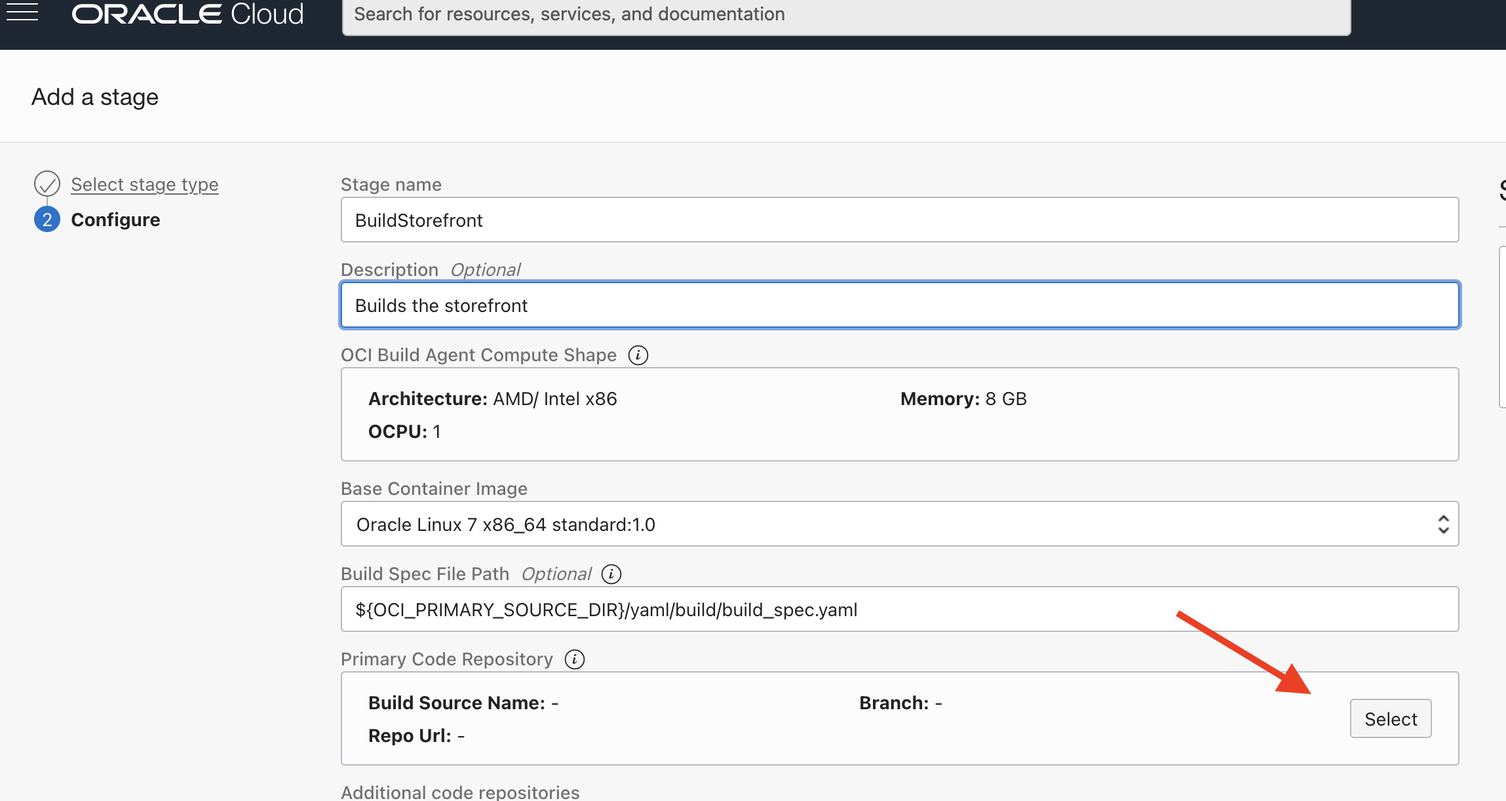
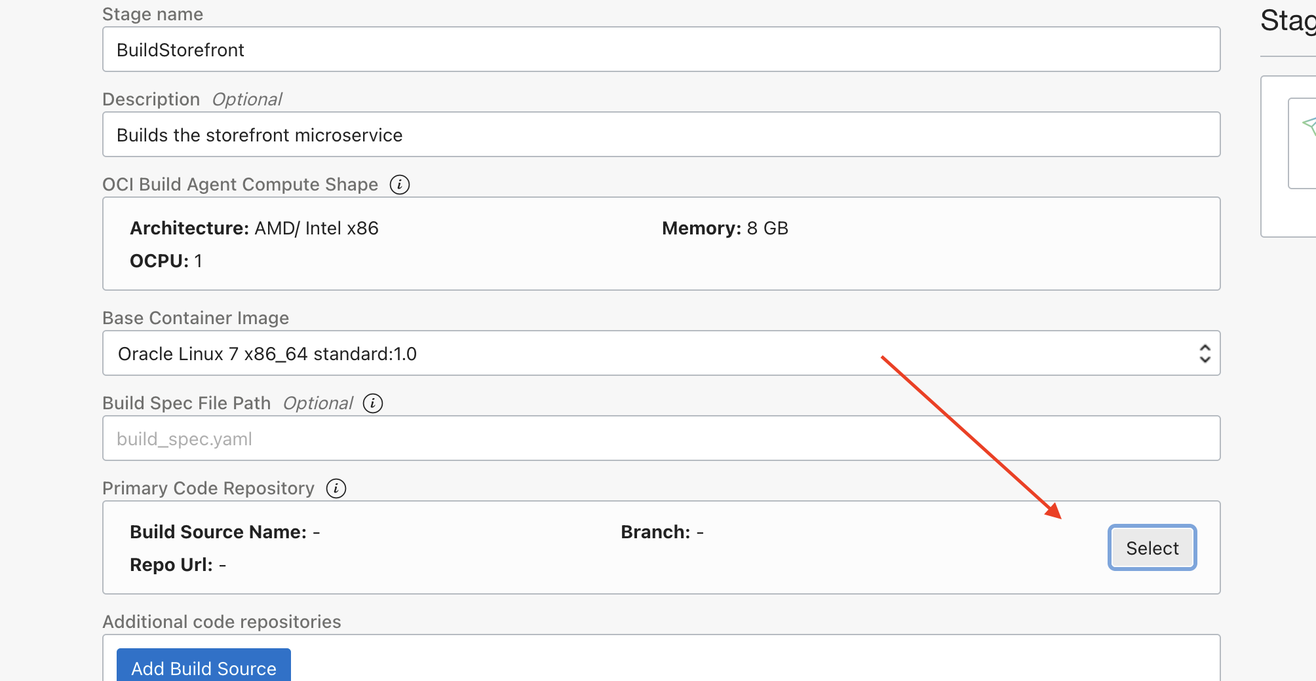
build pipelines added - single stage

diff --git a/AppDev/cloud-native/dev-ops/oke-labs/creating-the-first-pipeline.md b/AppDev/cloud-native/dev-ops/oke-labs/creating-the-first-pipeline.md
@@ -60,20 +60,13 @@ We're now going to add a build stage. A build stage runs in it's build runner (e
   
   ![](images/build-pipeline-pipeline-add-build-stage-part-1.png)
 
-  4. Name the stage `BuildStorefront`, Enter a description if you like, Leave the Base container image unchanged, In the **Build Spec File Path** enter `${OCI_PRIMARY_SOURCE_DIR}/yaml/build/build_spec.yaml`
+  4. Name the stage `BuildStorefront`, Enter a description if you like, Leave the **Base container image** unchanged, Leave the **Build Spec File Path** blank
   
   ![](images/build-pipeline-pipeline-add-build-stage-part-2-part-1.png)
 
-<details><summary><b>Why specify a location this time, isn't the default ?</b></summary>
+<details><summary><b>I don't want the build_spec.aml in the repo root ?</b></summary>
 
-Note that we have to specify the location as the build_spec.yaml is not in the root of the project. This is due to the way that Eclipse places projects in a git repo, and I used Eclipse to create the code. (Eclipse allows multiple projects in the same git repo so everything is one level "down" from the top of the repo). If build_spec.yaml has been ad the top level of the git repo the build system would have looked there as the default and we would not have had to specify this.
-
----
-</details>
-
-<details><summary><b>What's with ${OCI_PRIMARY_SOURCE_DIR} ?</b></summary>
-
-The devops build system assigns the variable ${OCI_PRIMARY_SOURCE_DIR} to the location in the build runner where the primary git repo is placed during it's setup so for the cloudnative-helidon-storefront this means that build spec is in ${OCI_PRIMARY_SOURCE_DIR}/yaml/build/build_spec.yaml
+You can specify the location as the build_spec.yaml if it is not in the root of the project (though at the time of writing that seemed not to work consistently). The devops build system assigns the variable ${OCI_PRIMARY_SOURCE_DIR} to the location in the build runner where the primary git repo is placed during it's setup so for the cloudnative-helidon-storefront you could set the build spec as `${OCI_PRIMARY_SOURCE_DIR}/helidon-storefront-full/yaml/build/build_spec.yaml` if you wanted to use that version of the file.
 
 Note for a full list of the variables setup by the build pipeline infrastructure see the **Build Specification Parameters** section in the [build pipeline documentation](https://docs.oracle.com/en-us/iaas/Content/devops/using/build_specs.htm)
 
@@ -94,80 +87,188 @@ Note for a full list of the variables setup by the build pipeline infrastructure
   
 <details><summary><b>What if my project has multiple git repo ?</b></summary>
 
-Note - For this lab we are only using a single git repo which contains all of the code as well as the Kubernetes Manifests, However it's perfectly reasonable for a build to have multiple git repositories, for example if the code and Kubernetes manifests were held in separate repositories (which could with careful pipeline design result in a faster CI/CD process if only the manifests were changed)
+For this lab we are only using a single git repo which contains all of the code as well as the Kubernetes Manifests, However it's perfectly reasonable for a build to have multiple git repositories, for example if the code and Kubernetes manifests were held in separate repositories (which could with careful pipeline design result in a faster CI/CD process if only the manifests were changed)
 
 ---
 </details>
 
 <details><summary><b>Can I optimize my build with parallel stages ?</b></summary>
 
-Note - For this lab we're only going to create a simple linear pipeline, but if appropriate you can have parallel stages, perhaps you are building multiple library files first which can all be build independently, then combining them all in a last deploy stage and linking the intermediate artifacts with outputArtifact / inputArtifact entries in their build specs.
+For this lab we're only going to create a simple linear pipeline, but if appropriate you can have parallel stages, perhaps you are building multiple library files first which can all be build independently, then combining them all in a last deploy stage and linking the intermediate artifacts with outputArtifact / inputArtifact entries in their build specs.
 
 ---
 </details>
 
+The build stage will show in the editor
+
+  ![](images/build-pipeline-pipeline-added-first-stage.png)
+
 ## Task 3: Running our first pipeline 
 
-Let's see this in action, Click the **Start Manual Run** button on the upper right of the pipeline editor
+Let's see this in action, 
+
+  1. Click the **Start Manual Run** button on the upper right of the pipeline editor
+  
+  ![](images/build-pipeline-manual-run-start-button.png)
 
 
-A window will appear, you can change the Build run name it you needed to, but for now just leave it with the current value. The parameters box should be empty, as for this part of the lab we have not defined any parameters (we will look into this in a little bit) We only using using variables which get their values from inside the build pipeline, from the vault secrets (e.g. OCIR_HOST_VAULT), are determined inside the build stage (e.g. STOREFRONT_VERSION), or are set for us by the build pipeline infrastructure itself (e.g. OCI_PRIMARY_SOURCE_DIR)
+  A window will appear, you can change the Build run name it you needed to, but for now just leave it with the current value. The parameters box should be empty, as for this part of the lab we have not defined any parameters (we will look into this in a little bit) We only using using variables which get their values from inside the build pipeline, from the vault secrets (e.g. OCIR_HOST_VAULT), are determined inside the build stage (e.g. STOREFRONT_VERSION), or are set for us by the build pipeline infrastructure itself (e.g. OCI_PRIMARY_SOURCE_DIR)
 
-Click the **Start Manual Run** button on the lower left to start the build process.
+  2. Click the **Start Manual Run** button on the lower left to start the build process.
+  
+  ![](images/build-pipeline-manual-run-form-no-params.png)
 
-We can now see several aspects on the page
+  We can now see several aspects on the page
+  
+  ![](images/build-pipeline-manual-run-start-initial-build-only-pipeline.png)
 
 On the left is the build pipeline, at the moment there's only one stage, but if there were multiple the color coding would indicate the progress with completed stages being in green and in progress stages in Amber and pending stages in grey.
 
-In the centre section we can see the list of stages, if you click the arrow to the left of the stage name you will see the individual steps in the stage (these correspond to the steps in your `build_spec.yaml` file. As each stage completed a green checkmark will be displayed next to it
+In the centre section you will see the list of stages, if you click the arrow to the left of the stage name you will see the individual steps in the stage (these correspond to the steps in your `build_spec.yaml` file. As each stage completed a green checkmark will be displayed next to it
 
-Finally on the right we can see the logs form the build stages, note that if there are multiple steps in a build stage they will all be displayed in the logs for the stage. It can take a while for the logs to start being displayed as they do not update immediately, they can lag by 30 seconds or more between the data being generated and displayed. 
+Finally on the right you will see the logs from the build stages, note that if there are multiple steps in a build stage they will all be displayed in the logs for the stage. It can take a while for the logs to start being displayed as they do not update immediately, they can lag by 30 seconds or more between the data being generated and displayed. 
 
-Note If you see a warning about end time cannot be before start time do not worry, that's just the log viewer getting a little confused as the build process is initialized, it will sort itself out once the log data starts arriving.
+The build process can take a few minutes to run, please be patient.
 
-Navigating the log viewer.
+<details><summary><b>End timebefore start time warning ?</b></summary>
+
+If you see a warning about end time cannot be before start time do not worry, that's just the log viewer getting a little confused as the build process is initialized, it will sort itself out once the log data starts arriving.
+
+---
+</details>
+
+## Task 4: Navigating the build output.
 
 Though it's not that apparent (on Safari at least) there is a scroll bar on the left of the logs, also you can enter text in the **Find** field at the top of the log viewer, currently this highlights the entries rather than jumping to them (so you need to then scroll in most cases). Next to the **Find** field there is an arrow to enable you to download the logs to your own machine, personally I find this the easiest way to browse the logs once the stage has finished - I just load them into a text editor (or on the Mac there is also the console log viewer). The logs can get quite big - even this simple build stage generates over 1MB of log data, though most of that is just updates from Maven as it downloads the jar files specified in the pom.xml file.
 
+  ![](images/build-pipeline-manual-run-build-pipeline-log-navigation.png)
+  
 There is also the "three dots" menu to the right of each build stage, clicking on that opens a "popup" where you can see the details of the build runner as well as the logs for that stage.
 
-One point here, you can (as long as the logs are preserved - usually that's within the period specified when you Enabled logging for the project (there is a 1 month minimum) go back at any time to look at the output. There are several ways to do this, but if you are already in the build pipeline then the simplest is to click on the **Build History** tab. If this isn't visible (currently it only seems to display if there are no active build runs) Click the **Build pipeline** tab then the **Build History** should be displayed. 
+  ![](images/build-pipeline-manual-run-build-pipeline-build-stages-navigation.png)
+  
+  Once in the details page you can click the **Close** button to get rid of it
+  
+  ![](images/build-pipeline-manual-run-build-pipeline-build-stage-details.png)
 
-The other way to access the build history is to use the "Breadcrumb" trail at the top of the window and click on your project name, then on the left in the **Resources** section click **Build History** to see the list of builds that have been run.
+One point here, you can (as long as the logs are preserved - usually that's within the period specified when you Enabled logging for the project (there is a 1 month minimum) go back at any time to look at the output. There are several ways to do this, but if you are already in the build pipeline then the simplest is to click on the **Build History** tab. If this isn't visible (currently it only seems to display if you are not viewing a build run's output) Click the **Build pipeline** tab then the **Build History** should be displayed. 
 
-Admittedly at the moment you probably only have a single build, named something like `BuildStorefront-20211101-21-37` If it's not obvious the `20211101` references the date of the build in YYMMDD format and the `21-37` references the time of the build though I personally find looking at the **Timestamp** column to be easier. Also note that the **Triggerd by** column only contains `-`  this indicates a build process you started manually, it's possible (as we shall see later) to automatically trigger a build pipeline based on a git commit, in that case the **Build Runs** column will include the name of the trigger and the **Triggerd by** will contain the OCID of the trigger (the OCID is unique, wheras a name could be re-used, so this makes traceability easier).
+  ![](images/build-pipeline-build-history-list-first-build.png)
 
-Hopefully, unless there was an error in the `build_spec.yaml` file the build will complete, either using the log viewer or if you prefer by downloading to your own machine and opening it there let's have a log at the build log output.
+The other way to access the build history is to use the "Breadcrumb" trail at the top of the window and click on your project name, then on the left in the **Resources** section click **Build History** to see the list of **all** builds that have been run in thie project, but just the ones for the specific build pipeline.
+
+  ![](images/build-pipeline-build-history-list-all-builds.png)
+
+Admittedly at the moment you probably only have a single build, named something like `BuildStorefront-20211101-21-37` If it's not obvious `BuildStorefront` is the build pipeline name, the `20211101` references the date of the build in YYMMDD format and the `21-37` references the time of the build though I personally find looking at the **Timestamp** column to be easier. Also note that the **Triggerd by** column only contains `-`  this indicates a build process you started manually, it's possible (as we shall see later) to automatically trigger a build pipeline based on a git commit, in that case the **Build Runs** column will include the name of the trigger and the **Triggerd by** will contain the OCID of the trigger (the OCID is unique, wheras a name could be re-used, so this makes traceability easier).
+
+Hopefully, unless there was an error in the `build_spec.yaml` file the build will complete, either using the log viewer or if you prefer by downloading to your own machine and opening it there let's have a look at the build log output.
 
 The initial phases cover the creation and allocation of the build runner to the build stage - remember each build stage will have it's own runner.
 
+```
+2021-11-29T14:19:28.691Z Acquiring build runner.
+2021-11-29T14:19:35.413Z Acquired build runner.
+2021-11-29T14:19:35.927Z Provisioning build runner.
+2021-11-29T14:19:45.179Z Starting Build Execution..
+2021-11-29T14:19:47.465Z Starting Download source storefront, url https://devops.scmservice.uk-london-1.oci.oraclecloud.com/namespaces/lrn2df6gh9vo/projects/tgDevOpsProject/repositories/cloudnative-storefront-helidon, repoId ocid1.devopsrepository.oc1.uk-london-1.amaaaaaak6me2vyajgwoyrekxcjjl7klc2ufq4edp7gt5q2ambuxfp4juoia and ref: my-lab-branch.
+2021-11-29T14:19:48.375Z Download source storefront, url https://devops.scmservice.uk-london-1.oci.oraclecloud.com/namespaces/lrn2df6gh9vo/projects/tgDevOpsProject/repositories/cloudnative-storefront-helidon, repoId ocid1.devopsrepository.oc1.uk-london-1.amaaaaaak6me2vyajgwoyrekxcjjl7klc2ufq4edp7gt5q2ambuxfp4juoia and ref: my-lab-branch successful.
+2021-11-29T14:19:48.478Z Searching for build spec file in default location: ${OCI_PRIMARY_SOURCE_DIR}/build_spec.yaml or ${OCI_PRIMARY_SOURCE_DIR}/build_spec.yml
+2021-11-29T14:19:48.479Z Using build spec from default location: ${OCI_PRIMARY_SOURCE_DIR}/build_spec.yaml
+2021-11-29T14:19:48.537Z Searching for build spec file in default location: ${OCI_PRIMARY_SOURCE_DIR}/build_spec.yaml or ${OCI_PRIMARY_SOURCE_DIR}/build_spec.yml
+2021-11-29T14:19:48.537Z Using build spec from default location: ${OCI_PRIMARY_SOURCE_DIR}/build_spec.yaml
+2021-11-29T14:19:48.538Z Starting PARSE_BUILD_SPEC
+2021-11-29T14:19:48.804Z Completed PARSE_BUILD_SPEC
+```
 Once the build runner is ready then the build runtime does some parsing of the `build_spec.yaml` file. If there is a problem in processing the build spec (e.g. corrupt yaml, or trying to do something like export a vault variable) then it will be flagged here and the build process will stop.
 
-We then see the build process doing a phase **DOWNLOAD_INPUT_ARTIFACTS** This is basically a empty phase as in our build spec we didnt; define any input artifacts, but if there had been multiple build phases in our pipeline (for example creating library files in one build phase, then using them in a subsequent phase) this would allow the import of those artifacts form the previous stage inbto the current one - that's importanrt because each phase geit's it's own brand new runner, which of course initially doesn't know about what has happend in previous stages, so we need a way to transfer resulting artefacts between the stages.
+```
+2021-11-29T14:19:48.809Z Starting DOWNLOAD_INPUT_ARTIFACTS
+2021-11-29T14:19:48.810Z Completed DOWNLOAD_INPUT_ARTIFACTS successfully
+```
 
-Now we see the actual build steps we defined start running, these are executed in the order defined in the `build_spec.yaml` file, so the first stage is `Extract Export variables` We can see it displaying the various variables we are `echoing` in the buld step, along with the `STOREFRONT_VERSION:` being set to a value that the script extracted forn the source code (`0.0.1` in this case)
+We then see the build process doing a phase **DOWNLOAD_INPUT_ARTIFACTS** This is basically a empty phase as in our build spec we didn't define any input artifacts, but if there had been multiple build phases in our pipeline (for example creating library files in one build phase, then using them in a subsequent phase) this would allow the import of those artifacts form the previous stage into the current one - that's important because each phase get's it's own brand new runner, which of course initially doesn't know about what has happened in previous stages, so we need a way to transfer resulting artifacts between the stages.
 
+```
+2021-11-29T14:19:49.337Z Executing BUILD_SPEC_STEP : Extract Export variables
+2021-11-29T14:19:49.338Z Executing step: Extract Export variables with shell type: bash, user: root, timeout: 10000
+2021-11-29T14:19:49.600Z EXEC: Path is
+2021-11-29T14:19:49.601Z EXEC: /php/php-7.4.23/bin:/usr/share/maven/bin:/usr/local/sbin:/usr/local/bin:/usr/sbin:/usr/bin:/sbin:/bin:/root/bin:/usr/lib/gradle/gradle-7.1/bin:/node/node-v14.17.6-linux-x64/bin:/golang/go/bin
+2021-11-29T14:19:49.601Z EXEC: JAVA_HOME is
+2021-11-29T14:19:49.602Z EXEC: javahome
+2021-11-29T14:19:49.602Z EXEC: Extracting export variables
+2021-11-29T14:19:49.617Z EXEC: STOREFRONT_VERSION:  1.0.0
+2021-11-29T14:19:49.617Z EXEC: image will be stored to ///storefront:1.0.0
+2021-11-29T14:19:49.618Z EXEC: transferring the OCIR_HOST and OCIR_STORAGE_NAMESPACE vault variables
+2021-11-29T14:19:49.618Z EXEC: OCIR_HOST is lon.ocir.io
+2021-11-29T14:19:49.618Z EXEC: OCIR_STORAGE_NAMESPACE is lrn2df6gh9vo
+2021-11-29T14:19:49.641Z BUILD_SPEC_STEP : Extract Export variables execution completed.
+```
+
+Now we see the actual build steps we defined start running, these are executed in the order defined in the `build_spec.yaml` file, so the first stage is `Extract Export variables` We can see it displaying the various variables we used `echo` for in the buld step, along with the `STOREFRONT_VERSION:` being set to a value that the script extracted from the source code (`1.0.0` which is what we updated the version to)
+
+
+```
+2021-11-29T14:19:49.643Z Executing step: Install local JDK11 with shell type: bash, user: root, timeout: 10000000
+2021-11-29T14:19:54.681Z EXEC: total 183220
+2021-11-29T14:19:54.682Z EXEC: drwxr-xr-x. 8 root root      4096 Nov 29 14:19 jdk-11
+2021-11-29T14:19:54.682Z EXEC: -rw-r--r--. 1 root root 187611826 Aug 23  2018 openjdk-11+28_linux-x64_bin.tar.gz
+2021-11-29T14:19:54.683Z EXEC: Path is
+2021-11-29T14:19:54.683Z EXEC: /root/InstalledSoftware/jdk-11/bin:/php/php-7.4.23/bin:/usr/share/maven/bin:/usr/local/sbin:/usr/local/bin:/usr/sbin:/usr/bin:/sbin:/bin:/root/bin:/usr/lib/gradle/gradle-7.1/bin:/node/node-v14.17.6-linux-x64/bin:/golang/go/bin
+2021-11-29T14:19:54.684Z EXEC: JAVA_HOME is
+2021-11-29T14:19:54.684Z EXEC: /root/InstalledSoftware/jdk-11
+2021-11-29T14:19:54.744Z EXEC: openjdk version "11" 2018-09-25
+2021-11-29T14:19:54.745Z EXEC: OpenJDK Runtime Environment 18.9 (build 11+28)
+2021-11-29T14:19:54.746Z EXEC: OpenJDK 64-Bit Server VM 18.9 (build 11+28, mixed mode)
+2021-11-29T14:19:54.803Z BUILD_SPEC_STEP : Install local JDK11 execution completed.
+```
 A little further down we see the output for the `Install local JDK11` stage, her we can see the output of the commands used to download and install the version of the JDK we wish to use, along with some confirmation output including the updated `PATH` variable, the value assigned to `JAVA_HOME` the output form `java --version` and so on.
+
+```
+2021-11-29T14:19:55.509Z Executing BUILD_SPEC_STEP : Build Source and pack into container image
+2021-11-29T14:19:55.510Z Executing step: Build Source and pack into container image with shell type: bash, user: root, timeout: 400000
+2021-11-29T14:19:55.936Z EXEC: Running maven package - Working in /workspace/storefront/helidon-storefront-full
+2021-11-29T14:19:57.404Z EXEC: [INFO] Scanning for projects...
+2021-11-29T14:19:57.789Z EXEC: Downloading from central: https://repo.maven.apache.org/maven2/io/helidon/applications/helidon-mp/2.3.4/helidon-mp-2.3.4.pom
+2021-11-29T14:19:58.072Z EXEC: Progress (1): 2.7/6.2 kB
+2021-11-29T14:19:58.100Z EXEC: Progress (1): 5.5/6.2 kBProgress (1): 6.2 kB                        Downloaded from central: https://repo.maven.apache.org/maven2/io/helidon/applications/helidon-mp/2.3.4/helidon-mp-2.3.4.pom (6.2 kB at 20 kB/s)Downloading from central: https://repo.maven.apache.org/maven2/io/helidon/applications/helidon-applications-project/2.3.4/helidon-applications-project-2.3.4.pom
+2021-11-29T14:19:58.107Z EXEC: Progress (1): 2.7/10 kB
+2021-11-29T14:19:58.131Z EXEC: Progress (1): 5.5/10 kBProgress (1): 8.2/10 kBProgress (1): 10 kB  
+...
+...
+...
+Lot's and lot's of Maven output         
+```
 
 The next stage contains a lot of output - it's actually executing the build process and as it useds Maven to do this we get all of the output from the `mvn` command as it downloads first it's own jar files, then the ones specified in the `pom.xml` file for building the image and the jar files to run `jib` which packages the resulting code into a container image. This is a *lot* of output and makes up date build of the output for this stage.
 
 Rather than going through the output page by page in the log viewer just use the scroll bar (or whatever navigation option you chose if looking at this on your own machine) to go to the bottom of the output.
 
+```
+2021-11-29T14:21:01.937Z Starting SAVE_OUTPUT_ARTIFACTS
+2021-11-29T14:21:32.043Z Artifact storefront_container_image in build spec file with location storefront:latest successfully saved.
+2021-11-29T14:21:32.075Z Artifact service_yaml in build spec file from location ${OCI_PRIMARY_SOURCE_DIR}/helidon-storefront-full/yaml/deployment/serviceStorefront.yaml successfully saved.
+2021-11-29T14:21:32.103Z Artifact ingressRules_yaml in build spec file from location ${OCI_PRIMARY_SOURCE_DIR}/helidon-storefront-full/yaml/deployment/ingressStorefrontRules.yaml successfully saved.
+2021-11-29T14:21:32.131Z Artifact deployment_yaml in build spec file from location ${OCI_PRIMARY_SOURCE_DIR}/helidon-storefront-full/yaml/deployment/storefront-deployment.yaml successfully saved.
+2021-11-29T14:21:32.132Z Completed SAVE_OUTPUT_ARTIFACT
+```
+
 Here you will see the output of the phase `SAVE_OUTPUT_ARTIFACTS` if you don't see this then you may need to scroll up a little in the log output (it should be within around 5-15 lines from the bottom of the output for this stage)
-
-here we will see output similar to the following 
-
-```
-2021-11-01T18:23:14.056Z Starting SAVE_OUTPUT_ARTIFACTS   
-2021-11-01T18:23:43.420Z Artifact storefront_container_image in build spec file with location storefront:latest successfully saved.   
-2021-11-01T18:23:43.542Z Artifact service_yaml in build spec file from location ${OCI_PRIMARY_SOURCE_DIR}/helidon-storefront-full/yaml/deployment/serviceStorefront.yaml successfully saved.   
-2021-11-01T18:23:43.579Z Artifact ingressRules_yaml in build spec file from location ${OCI_PRIMARY_SOURCE_DIR}/helidon-storefront-full/yaml/deployment/ingressStorefrontRules.yaml successfully saved.   
-2021-11-01T18:23:43.613Z Artifact deployment_yaml in build spec file from location ${OCI_PRIMARY_SOURCE_DIR}/helidon-storefront-full/yaml/deployment/storefront-deployment.yaml successfully saved.   
-2021-11-01T18:23:43.613Z Completed SAVE_OUTPUT_ARTIFACT   
-```
 
 This phase is the build runner copying the artifacts that we specified in the `outputArtifacts` section of the `build _spec.yaml` out of the build runner and storing them somewhere so they can be picked up by the next stage (I'm guessing they are stored in bit of objects storage private to the build process, but it doesn't really matter) the artifact names are the ones you specified in the `outputArtifacts` section and *must* match the names you use for the artifact in subsequent build phases.
 
+```
+2021-11-29T14:21:32.132Z Starting SAVE_EXPORTED_VARIABLES [OCIR_STORAGE_NAMESPACE, OCIR_HOST, STOREFRONT_VERSION]
+2021-11-29T14:21:32.167Z Completed SAVE_EXPORTED_VARIABLES
+2021-11-29T14:22:02.517Z Completed Build stage.
+```
+
 Lastly we see the phase `SAVE_EXPORTED_VARIABLES` This phase is extracting the variables that we specified in the `vars.exportVariables` section in the `build_spec.yaml` file, as tith the output artifacts if we didn't do this they would die when the stage completes (along with everything else not copied out of the the build runner). By requiring the explicit identification of the output from a build stage we avoid polluting subsequent stages with unexpected artifacts and variables - and remember that the people designing one build stage may be different than those designing another, so coordination between the teams designing a build phase is essential to ensure that the expected variables and artifacts (and only those) are transfered between stages.
 
-So we've seen how to setup the build pipeline and how the `build_spec.yaml` is processed by the build runner, the next stage is to look at how to get the artifacts we have created out of the pipeline and into a longer term storage
+## End of the Module, what's next ?
+
+So we've seen how to setup the build pipeline and how the `build_spec.yaml` is processed by the build runner, but all this has done is shown us the compilation process and how to look at the results. The next stage is to look at how to get the artifacts we have created out of the pipeline and into a longer term storage so they can be used for a deployment.
+
+## Acknowledgements
+
+* **Author** - Tim Graves, Cloud Native Solutions Architect, EMEA OCI Centre of Excellence
+* **Last Updated By** - Tim Graves, November 2021

diff --git a/AppDev/cloud-native/dev-ops/oke-labs/examining-and-updating-the-build-spec.md b/AppDev/cloud-native/dev-ops/oke-labs/examining-and-updating-the-build-spec.md
@@ -329,10 +329,14 @@ We're about to be making changes to the code, so let's create a new git branch t
 
 Note that our new my-lab-branch branch is the one currently checked out (is has a `*` in front of it)
 
-
-  4. Edit the `helidon-storefront-full/yaml/build/build_spec.yaml` file in the OCI cloud shell (vi and nano are available), locate the `vaultVariables` section in the YAML and REPLACE the current OCI_HOST_VAULT value (`Needs your host secrets OCID`) with the OCID of the OCIR_HOST_VAULT secret you just created. For the and OCIR_STORAGE_NAMEPACE_VAULT variable REPLACE its current value (`Needs your storage namespace OCID`) with the OCID of the OCIR_STORAGE_NAMESPACE_VAULT you just created. The example below if my file, but of course yours will be different.
+  4. Copy the build_spec.yaml file to the root of the project, this is where the build tools loook for it by default.
   
-  **IMPORTANT** Make certain you use the right OCID from the vault to match the variables names in the build_spec.yaml, If you get this wront there will be unusual errors later on. 
+  - `cp helidon-storefront-full/yaml/build/build_spec.yaml .`
+
+
+  5. Edit the `build_spec.yaml` file in the OCI cloud shell (vi and nano are available), locate the `vaultVariables` section in the YAML and REPLACE the current OCI_HOST_VAULT value (`Needs your host secrets OCID`) with the OCID of the OCIR_HOST_VAULT secret you just created. For the and OCIR_STORAGE_NAMEPACE_VAULT variable REPLACE its current value (`Needs your storage namespace OCID`) with the OCID of the OCIR_STORAGE_NAMESPACE_VAULT you just created. The example below if my file, but of course yours will be different.
+  
+  **IMPORTANT** Make certain you use the right OCID from the vault to match the variables names in the build_spec.yaml, If you get this wrong there will be unusual errors later on. 
   
   ```yaml
   env:
@@ -373,7 +377,11 @@ To enable us to confirm the updated when we push a new version through the DevOp
   
 ##  Task 5: Uploading your changes
 
-  1. Let's commit these changes to your local git repo (the one in the cloud shell you are using). In the OCI Cloud shell type
+  1. Add the build_spec we just created to the repo
+  
+  - `git add .`
+  
+  2. Let's commit these changes to your local git repo (the one in the cloud shell you are using). In the OCI Cloud shell type
 
   - `git commit -a -m 'Set secret OCIDs and updated version'`
   
@@ -382,7 +390,7 @@ To enable us to confirm the updated when we push a new version through the DevOp
   2 files changed, 4 insertions(+), 4 deletions(-)
  ```
 
-  2. Now push the repo branch to the OCI Code repo you created earlier. In the OCI Cloud shell type
+  3. Now push the repo branch to the OCI Code repo you created earlier. In the OCI Cloud shell type
 
   - `git push devops my-lab-branch`
 
@@ -400,11 +408,11 @@ To ssh://devops.scmservice.uk-london-1.oci.oraclecloud.com/namespaces/lrn2df6gh9
  
 Our changes (including the creation of the new branch) have now been uploaded to the OCI Code repo.
 
-  3. Navigate to the `cloud-native-storefront` Code Repository in your project, be sure to select the `my-lab-branch` in the branch selector 
+  4. Navigate to the `cloud-native-storefront` Code Repository in your project, be sure to select the `my-lab-branch` in the branch selector - your changes are in this banch, not the main branch.
   
   ![](images/code-repo-select-my-lab-branch.png)
   
-  4. Navigate the code repo to the `helidon-storefront-full/yaml/build` directory and open the `build_spec.yaml` file, you'll see the updated values (of course these are mine, yours will be different)
+  5. Once in the code repo open the `build_spec.yaml` file (this is the new one in the repo root). You'll see the updated values (of course these are mine, yours will be different)
 
   ![](images/code-repo-updated-build-spec.png)
   
